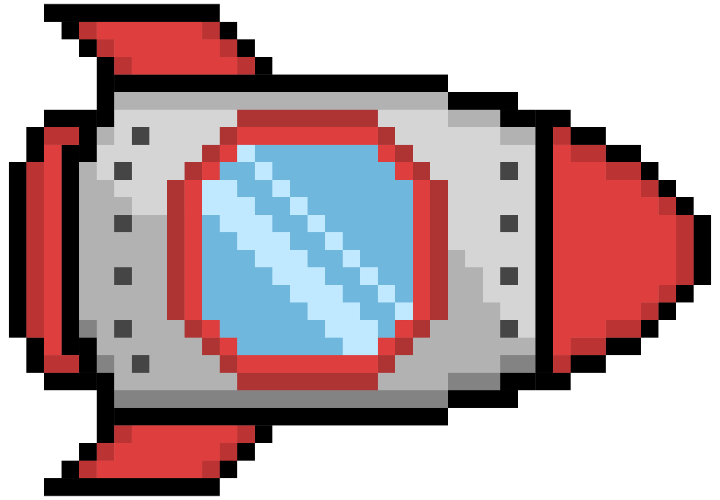
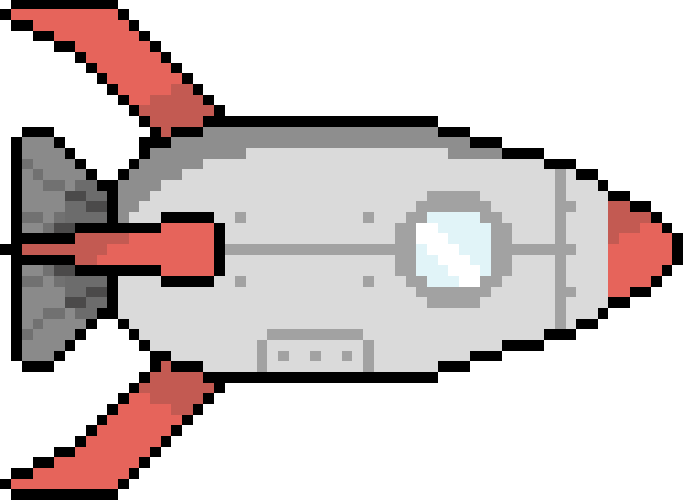
change rocket image

diff --git a/trajectory.py b/trajectory.py
@@ -59,7 +59,7 @@ def draw_trajectory(screen, g, v, h, alpha, t, screen_height, portal, teleport,p
 
     # Load the rocket image
     rocket_image = pygame.image.load('Assets/rocket.png')
-    rocket_image = pygame.transform.scale(rocket_image, (44,30))
+    rocket_image = pygame.transform.scale(rocket_image, (55,40))
 
     # Calculate the angle of the trajectory in degree at the current point
     trajectory_angle = math.degrees(math.atan2(-g * t + v * math.sin(math.radians(alpha)), v * math.cos(math.radians(alpha))))
@@ -71,7 +71,6 @@ def draw_trajectory(screen, g, v, h, alpha, t, screen_height, portal, teleport,p
     rocket_rect = rotated_rocket.get_rect(center=(rocket_x, rocket_y))
 
     screen.blit(rotated_rocket, rocket_rect)
-
     return rocket_x, rocket_y, teleport
 
 
@@ -96,7 +95,7 @@ def draw_aim(screen, g, v, h, alpha, circle_radius, screen_height, nb_points):
     """
     # Draw the rocket with the corresponding angle of launch
     rocket_image = pygame.image.load('Assets/rocket.png')
-    rocket_image = pygame.transform.scale(rocket_image, (44,30))
+    rocket_image = pygame.transform.scale(rocket_image, (55,40))
     trajectory_angle = math.degrees(math.atan2(-g + v * math.sin(math.radians(alpha)), v * math.cos(math.radians(alpha))))
     rotated_rocket = pygame.transform.rotate(rocket_image, trajectory_angle)
     screen.blit(rotated_rocket, (0,820))

diff --git a/orbital_phase.py b/orbital_phase.py
@@ -65,8 +65,8 @@ class OrbitalPhase:
         # Blit the planet image onto the transparent surface
         self.screen.blit(planet_img, (center_x - (planet_scale / 2), center_y - (planet_scale / 2)))
 
-        rocket_image = pygame.image.load('Assets/rocket.png')
-        rocket_image = pygame.transform.scale(rocket_image, (44, 30))
+        rocket_image = pygame.image.load('Assets/rocket_2.png')
+        rocket_image = pygame.transform.scale(rocket_image, (85, 40))
 
         # Rotate the rocket image based on the trajectory angle
         rotated_rocket = pygame.transform.rotate(rocket_image, -self.angle+90)
